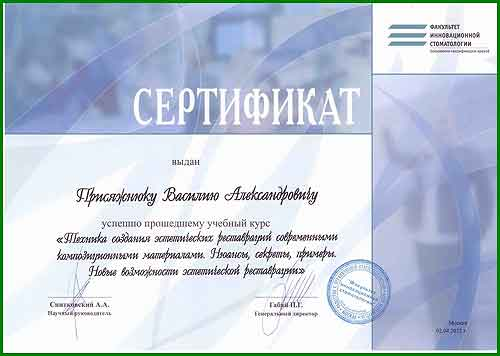
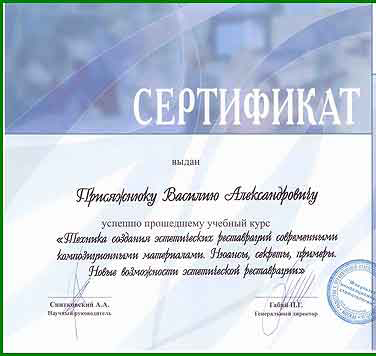
slider-mark-fix

diff --git a/markusha/one-doctor.html b/markusha/one-doctor.html
@@ -242,17 +242,9 @@
 									<a href="images/cert_add_2.jpg"><img src="images/cert_add_2.jpg" alt="licences-image"></a>							
 								</div>	
 								<div class="license-slide">
-									<a href="images/cert_add.jpg"><img src="images/cert_add.jpg" alt="licences-image"></a>						
+									<a href="images/cert_add_2.jpg"><img src="images/cert_add_2.jpg" alt="licences-image"></a>							
 								</div>
-								<div class="license-slide">
-									<a href="images/cert_add.jpg"><img src="images/cert_add.jpg" alt="licences-image"></a>						
-								</div>
-								<div class="license-slide">
-									<a href="images/cert_add.jpg"><img src="images/cert_add.jpg" alt="licences-image"></a>						
-								</div>
-								<div class="license-slide">
-									<a href="images/cert_add.jpg"><img src="images/cert_add.jpg" alt="licences-image"></a>						
-								</div>						
+																		
 							</div>
 							<div class="arrows arrows-licences-small">
 								<div class="arr-left-gen">
@@ -273,62 +265,61 @@
 										<polygon class="st0" points="2.1,0.5 1,1.6 22.8,23.5 1,45.4 2.1,46.5 25,23.5 "/>
 									</svg>
 								</div>
+							</div>
+						</div>
+					</div>				
+					<div class="doctor-schedule-block">
+						<span class="text-17-bold doctor-schedule-header">Расписание</span>
+						<div class="doctor-schedule-table">
+							<div class="doctor-schedule-table-field">
+								<span class="text-17-bold shedule-table-week">ПН</span>
+								<div class="sth-wrap">
+									<span class="main-text shedule-table-hour">12.20-13.00</span>
+									<span class="main-text shedule-table-hour">18.20-23.00</span>
+								</div>
+							</div>
+							<div class="doctor-schedule-table-field">
+								<span class="text-17-bold shedule-table-week">ВТ</span>
+								<div class="sth-wrap">
+									<span class="main-text shedule-table-hour">12.20-13.00</span>
+									<span class="main-text shedule-table-hour">17.20-23.00</span>
+								</div>
+							</div>
+							<div class="doctor-schedule-table-field">
+								<span class="text-17-bold shedule-table-week">СР</span>
+								<div class="sth-wrap">
+									<span class="main-text shedule-table-hour">12.20-13.00</span>
+									<span class="main-text shedule-table-hour">16.20-23.00</span>
+								</div>
+							</div>
+							<div class="doctor-schedule-table-field">
+								<span class="text-17-bold shedule-table-week">ЧТ</span>
+								<div class="sth-wrap">
+									<span class="main-text shedule-table-hour">12.20-13.00</span>	
+								</div>						
+							</div>
+							<div class="doctor-schedule-table-field">
+								<span class="text-17-bold shedule-table-week">ПТ</span>
+								<div class="sth-wrap">
+									<span class="main-text shedule-table-hour">12.20-13.00</span>
+									<span class="main-text shedule-table-hour">18.20-22.00</span>
+								</div>
+							</div>
+							<div class="doctor-schedule-table-field">
+								<span class="text-17-bold shedule-table-week">СБ</span>
+								<div class="sth-wrap">
+									<span class="main-text shedule-table-hour">12.20-13.00</span>
+									<span class="main-text shedule-table-hour">13.20-22.00</span>
+								</div>
+							</div>
+							<div class="doctor-schedule-table-field">
+								<span class="text-17-bold shedule-table-week">ВС</span>
+								<div class="sth-wrap">
+									<span class="main-text shedule-table-hour">12.20-13.00</span>	
+								</div>						
+							</div>
+						</div>
 					</div>
-						</div>
-					</div>					
-			
-				<div class="doctor-schedule-block">
-					<span class="text-17-bold doctor-schedule-header">Расписание</span>
-					<div class="doctor-schedule-table">
-						<div class="doctor-schedule-table-field">
-							<span class="text-17-bold shedule-table-week">ПН</span>
-							<div class="sth-wrap">
-								<span class="main-text shedule-table-hour">12.20-13.00</span>
-								<span class="main-text shedule-table-hour">18.20-23.00</span>
-							</div>
-						</div>
-						<div class="doctor-schedule-table-field">
-							<span class="text-17-bold shedule-table-week">ВТ</span>
-							<div class="sth-wrap">
-								<span class="main-text shedule-table-hour">12.20-13.00</span>
-								<span class="main-text shedule-table-hour">17.20-23.00</span>
-							</div>
-						</div>
-						<div class="doctor-schedule-table-field">
-							<span class="text-17-bold shedule-table-week">СР</span>
-							<div class="sth-wrap">
-								<span class="main-text shedule-table-hour">12.20-13.00</span>
-								<span class="main-text shedule-table-hour">16.20-23.00</span>
-							</div>
-						</div>
-						<div class="doctor-schedule-table-field">
-							<span class="text-17-bold shedule-table-week">ЧТ</span>
-							<div class="sth-wrap">
-								<span class="main-text shedule-table-hour">12.20-13.00</span>	
-							</div>						
-						</div>
-						<div class="doctor-schedule-table-field">
-							<span class="text-17-bold shedule-table-week">ПТ</span>
-							<div class="sth-wrap">
-								<span class="main-text shedule-table-hour">12.20-13.00</span>
-								<span class="main-text shedule-table-hour">18.20-22.00</span>
-							</div>
-						</div>
-						<div class="doctor-schedule-table-field">
-							<span class="text-17-bold shedule-table-week">СБ</span>
-							<div class="sth-wrap">
-								<span class="main-text shedule-table-hour">12.20-13.00</span>
-								<span class="main-text shedule-table-hour">13.20-22.00</span>
-							</div>
-						</div>
-						<div class="doctor-schedule-table-field">
-							<span class="text-17-bold shedule-table-week">ВС</span>
-							<div class="sth-wrap">
-								<span class="main-text shedule-table-hour">12.20-13.00</span>	
-							</div>						
-						</div>
-					</div>
-				</div>
 			</div>
 		</div>
 	</div>

diff --git a/markusha/js/common.js b/markusha/js/common.js
@@ -295,67 +295,42 @@ $('.licences-slider').on('init', function (event, slick, direction) {
     }
 });
 
+//Small-License-Slider
 $(window).on('load resize', function() {
 
-    // check to see if there are one or less slides
-    if (($('.licences-small-slider .license-slide').length <= 6)) {
-        // remove arrows
-        $('.arrows-licences-small').hide();
-         $('.licences-small-slider-wrap').removeClass('pad-fix')
+    var $full_weight=0;
+    var $width_lic=$('.licences-small-slider-wrap').width();
+     if ($('.licences-small-slider').hasClass('slick-initialized')) {
+      $(".licences-small-slider .slick-slide:not(.slick-cloned) .license-slide").each(function(){
+        $full_weight+=$(this).outerWidth(true);
+      });
     }else{
-    	$('.licences-small-slider-wrap').addClass('pad-fix')
+        $(".licences-small-slider .license-slide").each(function(){
+          $full_weight+=$(this).outerWidth(true);
+        });
+      }
+
+    if ($full_weight > $width_lic){
+      $('.arrows-licences-small').show();
+      $('.licences-small-slider-wrap').addClass('pad-fix')
       $('.licences-small-slider:not(.slick-initialized)').slick({ 
   
-          infinite: false,      
-          dots: false,  
-          speed: 300,
-          arrows: false,                
-          slidesToShow: 5,
-          slidesToScroll: 1,    
-          responsive: [
-           {
-            breakpoint: 1200,
-            settings: {
-              slidesToShow: 4,
-              slidesToScroll: 1             
-            }
-          },
-          {
-            breakpoint: 992,
-            settings: {
-              slidesToShow: 3,
-              slidesToScroll: 1             
-            }
-          },
-          {
-            breakpoint: 768,
-            settings: {
-              slidesToShow: 2,
-              slidesToScroll: 1
-            }
-          },
-          {
-            breakpoint: 576,
-            settings: {
-              slidesToShow: 2,
-              slidesToScroll: 1
-            }
-          },
-          {
-            breakpoint: 480,
-            settings: {
-              slidesToShow: 1,
-              slidesToScroll: 1
-            }
-          }
-          // You can unslick at a given breakpoint now by adding:
-          // settings: "unslick"
-          // instead of a settings object
-        ]   
+          infinite: true,              
+          speed: 300,                        
+          centerMode: true,
+          variableWidth: true,
+           slidesToShow: 1,
       });  
+    }else{
+       // remove arrows
+        $('.arrows-licences-small').hide();
+         $('.licences-small-slider-wrap').removeClass('pad-fix');
+         if ($('.licences-small-slider').hasClass('slick-initialized')) {
+          $(".licences-small-slider.slick-initialized").slick("unslick");
+         }else{
+
+         }
     }
-
-
 });
 
 $(window).on('load resize', function() {
@@ -370,11 +345,11 @@ $(window).on('load resize', function() {
 			 });
 			var stHeight = $('.slider-stock-news .slick-track').height();
 			$('.slider-stock-news .stock-news-slide').css('height',stHeight + 'px' );
-	}else{
-		$('.slider-stock-news').slick('refresh');
-		var stHeight = $('.slider-stock-news .slick-track').height();
-		$('.slider-stock-news .stock-news-slide').css('height',stHeight + 'px' );
-	}
+    	}else{
+    		$('.slider-stock-news').slick('refresh');
+    		var stHeight = $('.slider-stock-news .slick-track').height();
+    		$('.slider-stock-news .stock-news-slide').css('height',stHeight + 'px' );
+    	}
 
   } else {
   	$(".slider-stock-news.slick-initialized").slick("unslick");  	  	
@@ -512,3 +487,5 @@ $('.link-down').click(function(){
   $('html, body').animate({scrollTop: $(target).offset().top-100}, 1000);
 return false;
 });
+
+

diff --git a/markusha/css/main.css b/markusha/css/main.css
@@ -1440,18 +1440,17 @@ footer .row .col-xl-3:nth-child(3) {
 
 .doctor-cert img {
   margin-top: 17px;
-  width: 100%;
-  height: auto;
+  width: auto;
+  height: 120px;
 }
 
 .doctor-cert .slick-slide {
   text-align: center;
+  margin: 0 10px;
 }
 
 .doctor-cert .license-slide {
   display: inline-block;
-  width: 156px !important;
-  max-height: 120px;
   margin-right: 20px;
 }
 

diff --git a/markusha/sass/main.sass b/markusha/sass/main.sass
@@ -990,14 +990,14 @@ footer .row .col-xl-3:nth-child(3)
 .doctor-cert
 	img
 		margin-top: 17px		
-		width: 100%
-		height: auto		
+		width: auto
+		height: 120px		
 	.slick-slide
 		text-align: center
+		margin: 0 10px
 	.license-slide
 		display: inline-block
-		width: 156px!important	
-		max-height: 120px
+	
 		margin-right: 20px	
 .doctor-schedule-block
 	margin-top: 35px
